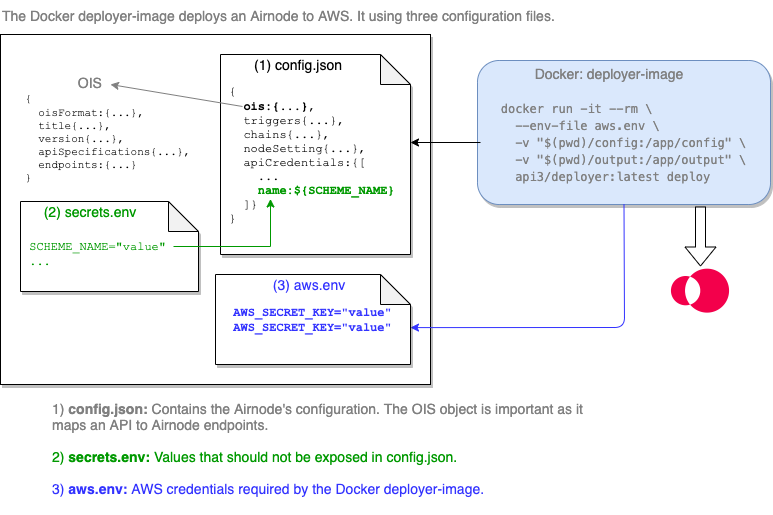
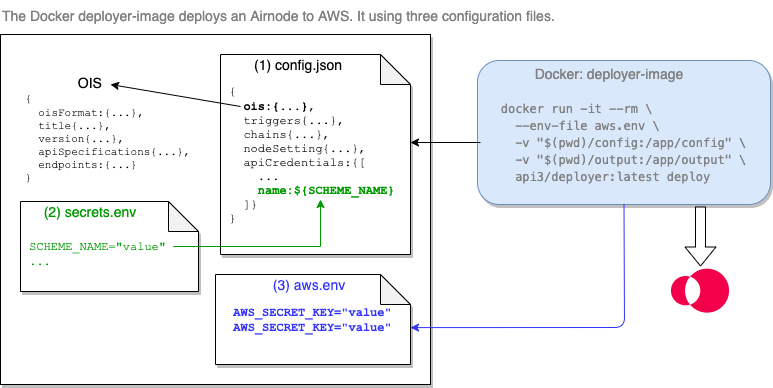
Move description list outside of image

diff --git a/docs/airnode/v0.2/grp-providers/README.md b/docs/airnode/v0.2/grp-providers/README.md
@@ -17,6 +17,15 @@ Provider docs to build the necessary files required to deploy an Airnode. The
 diagram below illustrates the basic steps to successfully deploy an Airnode.
 
 > ![image](../assets/images/api-provider-overview.png)
+>
+> 1. <p class="diagram-line" style="color:black;">config.json: Contains the Airnode's 
+>    configuration. The OIS object is important as it maps an API to Airnode endpoints.</p>
+>
+> 2. <p class="diagram-line" style="color:green;margin-top:10px;">secrets.env: Values 
+>    that should not be exposed in config.json.</p>
+>
+> 3. <p class="diagram-line" style="color:blue;margin-top:10px;">aws.env: AWS 
+>    credentials required by the Docker deployer image.</p>
 
 In summary you only need to do a few things.
 
